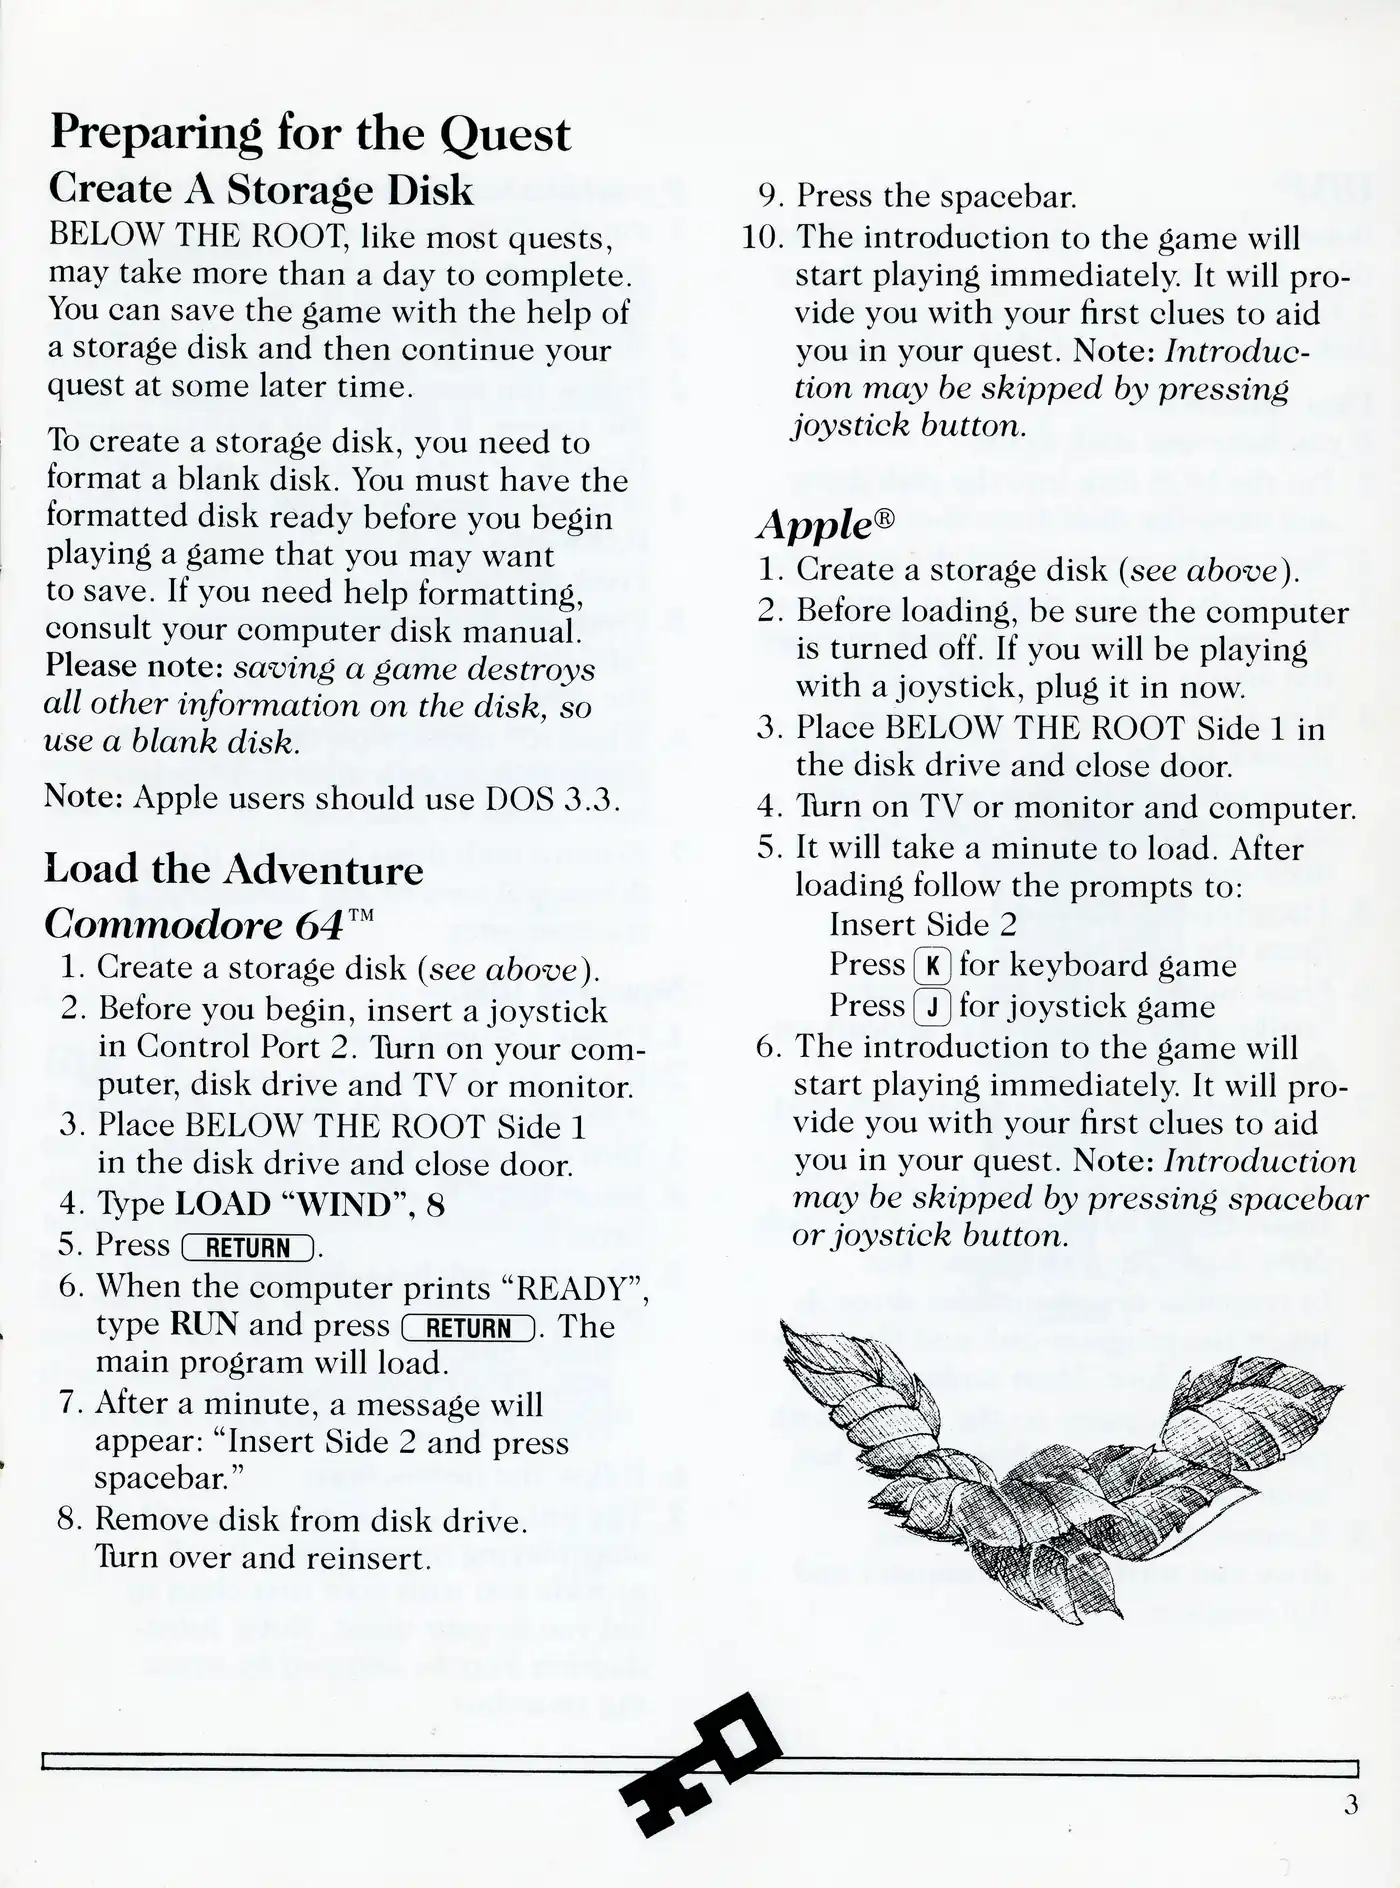
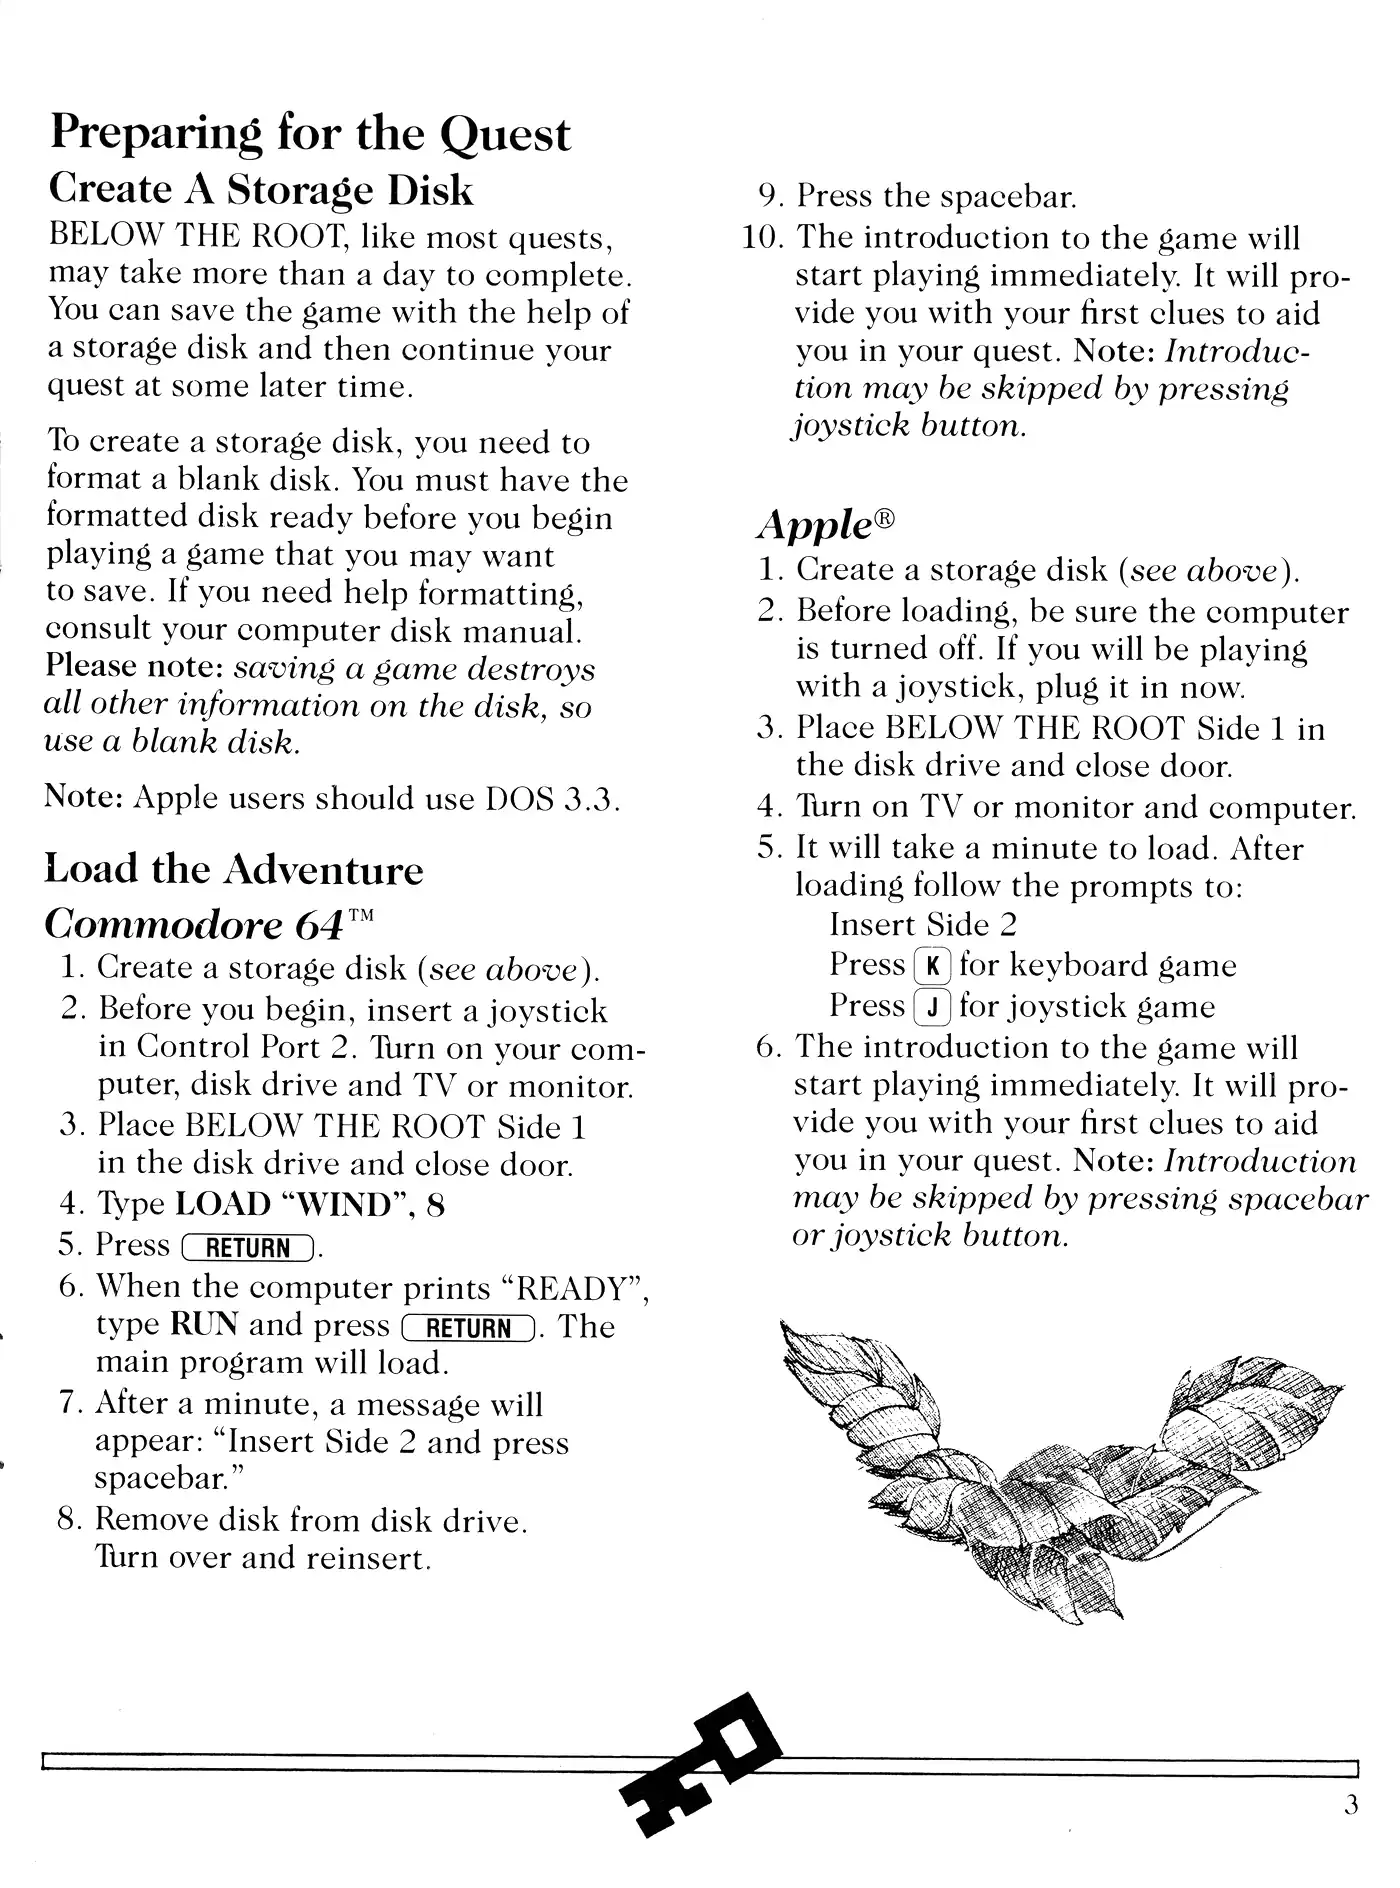
Whiten the manual scans and drop show-through from the other side
tools/manual.py now converts each page to grey, divides by a smoothed
paper-brightness estimate, and maps everything within 0.88 of paper to
white.  Show-through measures 0.89-0.97 after flattening, so it clears
while ink and pencil hatching keep their weight.  The estimate is
clamped near the page's typical paper level so the cover painting's
dark areas are not mistaken for dim paper.

diff --git a/tools/manual.py b/tools/manual.py
@@ -3,13 +3,39 @@
 Source: https://archive.org/details/below-the-root-game-manual-1984
 Usage: python3 tools/manual.py INPUT_JP2.zip [OUTPUT_DIRECTORY]
 Requires Pillow with JPEG 2000 and WebP support.
+
+The scans are monochrome print on tinted paper with faint show-through from
+the other side of each leaf.  Each page is converted to grey, divided by an
+estimate of its paper brightness to flatten the tint and uneven lighting, and
+then stretched so that anything within WHITE_POINT of the paper becomes white.
+Show-through measures 0.89-0.97 of paper after flattening; ink sits far below.
 """
 import argparse
 from io import BytesIO
 from pathlib import Path
 from zipfile import ZipFile
 
-from PIL import Image
+import numpy as np
+from PIL import Image, ImageFilter
+
+WHITE_POINT = 0.88
+
+
+def paper(grey):
+    """Estimate the local paper brightness by filtering the ink out of a reduced copy."""
+    small = grey.resize((grey.width // 8, grey.height // 8), Image.Resampling.BOX)
+    small = small.filter(ImageFilter.MaxFilter(9)).filter(ImageFilter.MaxFilter(9))
+    small = small.filter(ImageFilter.GaussianBlur(6))
+    level = np.asarray(small.resize(grey.size, Image.Resampling.BICUBIC), dtype=np.float32)
+    # Large dark areas (the cover painting) would otherwise read as dim paper.
+    typical = np.percentile(level, 90)
+    return np.clip(level, typical * 0.95, 255)
+
+
+def clean(image):
+    grey = image.convert('L')
+    flat = np.asarray(grey, dtype=np.float32) / paper(grey)
+    return Image.fromarray((np.clip(flat / WHITE_POINT, 0, 1) * 255).round().astype(np.uint8))
 
 
 def main():
@@ -27,6 +53,7 @@ def main():
             with Image.open(BytesIO(archive.read(name))) as original:
                 image = original.convert('RGB')
                 image = image.resize((1400, round(image.height * 1400 / image.width)), Image.Resampling.LANCZOS)
+                image = clean(image)
                 output = args.output / f'{number:02}.webp'
                 image.save(output, 'WEBP', quality=45, method=6)
                 total += output.stat().st_size
